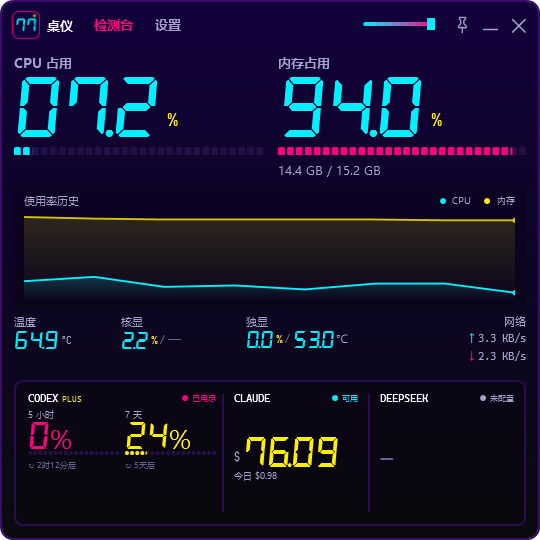
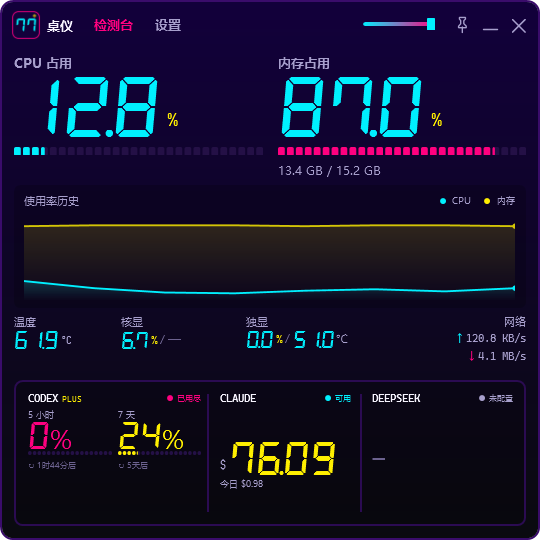
Refine Claude settings, themed scrollbar, and balance alignment

diff --git a/MainWindow.xaml b/MainWindow.xaml
@@ -45,6 +45,50 @@
             <Setter Property="Foreground" Value="{StaticResource ScreenMutedBrush}" />
         </Style>
 
+        <!-- Dark vertical scrollbar used by the settings page. -->
+        <Style x:Key="DarkScrollBarStyle" TargetType="ScrollBar">
+            <Setter Property="Width" Value="6" />
+            <Setter Property="Background" Value="Transparent" />
+            <Setter Property="Template">
+                <Setter.Value>
+                    <ControlTemplate TargetType="ScrollBar">
+                        <Grid Width="6" Background="Transparent">
+                            <Track x:Name="PART_Track" IsDirectionReversed="True">
+                                <Track.DecreaseRepeatButton>
+                                    <RepeatButton Command="{x:Static ScrollBar.PageUpCommand}"
+                                                  CommandTarget="{Binding RelativeSource={RelativeSource TemplatedParent}}"
+                                                  Opacity="0" Focusable="False" />
+                                </Track.DecreaseRepeatButton>
+                                <Track.Thumb>
+                                    <Thumb MinHeight="18">
+                                        <Thumb.Template>
+                                            <ControlTemplate TargetType="Thumb">
+                                                <Border x:Name="ThumbBorder" Background="#5A2A8A"
+                                                        CornerRadius="3" Margin="1,0" />
+                                                <ControlTemplate.Triggers>
+                                                    <Trigger Property="IsMouseOver" Value="True">
+                                                        <Setter TargetName="ThumbBorder" Property="Background" Value="#FF007F" />
+                                                    </Trigger>
+                                                    <Trigger Property="IsDragging" Value="True">
+                                                        <Setter TargetName="ThumbBorder" Property="Background" Value="#FFEF00" />
+                                                    </Trigger>
+                                                </ControlTemplate.Triggers>
+                                            </ControlTemplate>
+                                        </Thumb.Template>
+                                    </Thumb>
+                                </Track.Thumb>
+                                <Track.IncreaseRepeatButton>
+                                    <RepeatButton Command="{x:Static ScrollBar.PageDownCommand}"
+                                                  CommandTarget="{Binding RelativeSource={RelativeSource TemplatedParent}}"
+                                                  Opacity="0" Focusable="False" />
+                                </Track.IncreaseRepeatButton>
+                            </Track>
+                        </Grid>
+                    </ControlTemplate>
+                </Setter.Value>
+            </Setter>
+        </Style>
+
         <!-- Top tabs: text only, no surrounding frame. -->
         <Style x:Key="NavTabStyle" TargetType="Button">
             <Setter Property="Height" Value="22" />
@@ -516,11 +560,11 @@
                             Padding="8,7">
                         <Grid>
                             <Grid.ColumnDefinitions>
-                                <ColumnDefinition Width="1.35*" />
+                                <ColumnDefinition Width="1.25*" />
                                 <ColumnDefinition Width="1" />
-                                <ColumnDefinition Width="*" />
+                                <ColumnDefinition Width="1.05*" />
                                 <ColumnDefinition Width="1" />
-                                <ColumnDefinition Width="*" />
+                                <ColumnDefinition Width="1.05*" />
                             </Grid.ColumnDefinitions>
 
                             <!-- Codex is narrower now: each window keeps its own reset line. -->
@@ -609,7 +653,7 @@
                                                    Foreground="{Binding Claude.StatusBrush}" />
                                     </StackPanel>
                                 </Grid>
-                                <StackPanel Grid.Row="1" VerticalAlignment="Center">
+                                <StackPanel Grid.Row="1" VerticalAlignment="Center" Margin="0,8,0,0">
                                     <StackPanel Orientation="Horizontal" VerticalAlignment="Center">
                                         <TextBlock Text="{Binding Claude.CurrencySymbol}" FontFamily="{StaticResource NarrowFont}"
                                                    FontSize="8" FontWeight="Bold" Foreground="{StaticResource ScreenMutedBrush}"
@@ -687,6 +731,9 @@
                     </Grid.RowDefinitions>
                     <ScrollViewer Grid.Row="0" VerticalScrollBarVisibility="Auto"
                                   HorizontalScrollBarVisibility="Disabled" Padding="0,0,4,0">
+                        <ScrollViewer.Resources>
+                            <Style TargetType="ScrollBar" BasedOn="{StaticResource DarkScrollBarStyle}" />
+                        </ScrollViewer.Resources>
                         <StackPanel>
                     <Border Background="#30000000" BorderBrush="{StaticResource ScreenLineBrush}"
                             BorderThickness="1" CornerRadius="5" Padding="8,5">
@@ -727,6 +774,38 @@
                             </Grid>
                             <TextBlock x:Name="ApiKeyStatusText" Text="尚未配置" Style="{StaticResource CompactCaptionStyle}"
                                        FontSize="7" Foreground="{StaticResource ScreenMutedBrush}" Margin="0,3,0,0" />
+
+                            <TextBlock Text="Claude 查询地址" Style="{StaticResource MiniFieldLabelStyle}" Margin="0,5,0,2" />
+                            <Grid Height="26">
+                                <Grid.ColumnDefinitions>
+                                    <ColumnDefinition Width="*" />
+                                    <ColumnDefinition Width="4" />
+                                    <ColumnDefinition Width="Auto" />
+                                </Grid.ColumnDefinitions>
+                                <TextBox x:Name="ClaudeQueryUrlBox" Style="{StaticResource MiniTextBoxStyle}"
+                                         ToolTip="留空使用 Claude CLI 配置推导的 /v1/usage 地址" />
+                                <Button Grid.Column="2" Content="自动" Style="{StaticResource MiniButtonStyle}"
+                                        Width="42" Click="AutoDetectClaude_Click" />
+                            </Grid>
+                            <TextBlock Text="Claude Key（可选）" Style="{StaticResource MiniFieldLabelStyle}" Margin="0,4,0,2" />
+                            <Grid Height="26">
+                                <Grid.ColumnDefinitions>
+                                    <ColumnDefinition Width="*" />
+                                    <ColumnDefinition Width="4" />
+                                    <ColumnDefinition Width="Auto" />
+                                    <ColumnDefinition Width="4" />
+                                    <ColumnDefinition Width="Auto" />
+                                </Grid.ColumnDefinitions>
+                                <PasswordBox x:Name="ClaudeApiKeyBox" Style="{StaticResource MiniPasswordBoxStyle}"
+                                             ToolTip="留空使用 Claude CLI 配置；手动填写时本机 DPAPI 加密保存" />
+                                <Button Grid.Column="2" Content="测试" Style="{StaticResource MiniButtonStyle}"
+                                        Width="36" Click="TestClaude_Click" />
+                                <Button Grid.Column="4" Content="清除" Style="{StaticResource MiniButtonStyle}"
+                                        Width="36" Click="ClearClaudeKey_Click" />
+                            </Grid>
+                            <TextBlock x:Name="ClaudeStatusText" Text="" Style="{StaticResource CompactCaptionStyle}"
+                                       FontSize="6.5" Foreground="{StaticResource ScreenMutedBrush}" Margin="0,2,0,0"
+                                       TextTrimming="CharacterEllipsis" />
                         </StackPanel>
                     </Border>
 
@@ -765,47 +844,6 @@
                                     </ComboBox>
                                 </StackPanel>
                             </Grid>
-                        </StackPanel>
-                    </Border>
-
-                    <Border Background="#30000000" BorderBrush="{StaticResource ScreenLineBrush}"
-                            BorderThickness="1" CornerRadius="5" Padding="8,5" Margin="0,4,0,0">
-                        <StackPanel>
-                            <TextBlock Text="Claude" Style="{StaticResource SettingsSectionStyle}" />
-                            <TextBlock Text="自动读取 Claude CLI 的 Key 和 Base URL；留空使用 CLI 配置"
-                                       FontSize="6.3" Foreground="{StaticResource ScreenMutedBrush}" Margin="0,2,0,0" />
-                            <TextBlock Text="查询地址" Style="{StaticResource MiniFieldLabelStyle}" Margin="0,4,0,2" />
-                            <Grid Height="26">
-                                <Grid.ColumnDefinitions>
-                                    <ColumnDefinition Width="*" />
-                                    <ColumnDefinition Width="4" />
-                                    <ColumnDefinition Width="Auto" />
-                                </Grid.ColumnDefinitions>
-                                <TextBox x:Name="ClaudeQueryUrlBox" Style="{StaticResource MiniTextBoxStyle}"
-                                         ToolTip="留空或点「自动」使用 Claude CLI 配置推导出的 /v1/usage 地址" />
-                                <Button Grid.Column="2" Content="自动" Style="{StaticResource MiniButtonStyle}"
-                                        Width="42" Click="AutoDetectClaude_Click" />
-                            </Grid>
-                            <TextBlock Text="Claude Key（留空用 CLI 配置）" Style="{StaticResource MiniFieldLabelStyle}"
-                                       Margin="0,4,0,2" />
-                            <Grid Height="26">
-                                <Grid.ColumnDefinitions>
-                                    <ColumnDefinition Width="*" />
-                                    <ColumnDefinition Width="4" />
-                                    <ColumnDefinition Width="Auto" />
-                                    <ColumnDefinition Width="4" />
-                                    <ColumnDefinition Width="Auto" />
-                                </Grid.ColumnDefinitions>
-                                <PasswordBox x:Name="ClaudeApiKeyBox" Style="{StaticResource MiniPasswordBoxStyle}"
-                                             ToolTip="仅在本机 DPAPI 加密保存；留空时读取 Claude CLI 配置" />
-                                <Button Grid.Column="2" Content="测试" Style="{StaticResource MiniButtonStyle}"
-                                        Width="36" Click="TestClaude_Click" />
-                                <Button Grid.Column="4" Content="清除" Style="{StaticResource MiniButtonStyle}"
-                                        Width="36" Click="ClearClaudeKey_Click" />
-                            </Grid>
-                            <TextBlock x:Name="ClaudeStatusText" Text="自动读取 Claude CLI 配置" Style="{StaticResource CompactCaptionStyle}"
-                                       FontSize="6.5" Foreground="{StaticResource ScreenMutedBrush}" Margin="0,2,0,0"
-                                       TextTrimming="CharacterEllipsis" />
                         </StackPanel>
                     </Border>
 

diff --git a/MainWindow.xaml.cs b/MainWindow.xaml.cs
@@ -107,7 +107,7 @@ public partial class MainWindow : Window
             CodexSecondaryStack.Margin = new Thickness(0, 23, 0, 0);
             CodexPrimaryValueText.FontSize = 19;
             CodexSecondaryValueText.FontSize = 19;
-            ClaudeBalanceValueText.FontSize = 21;
+            ClaudeBalanceValueText.FontSize = 24;
             DeepSeekBalanceValueText.FontSize = 24;
         }
         else
@@ -142,7 +142,7 @@ public partial class MainWindow : Window
             CodexSecondaryStack.Margin = new Thickness(0);
             CodexPrimaryValueText.FontSize = 18;
             CodexSecondaryValueText.FontSize = 18;
-            ClaudeBalanceValueText.FontSize = 20;
+            ClaudeBalanceValueText.FontSize = 22;
             DeepSeekBalanceValueText.FontSize = 22;
         }
     }

diff --git a/README.md b/README.md
@@ -1,4 +1,4 @@
-# 桌仪 · LocalDeck 1.6.0
+# 桌仪 · LocalDeck 1.6.1
 
 一个 Windows 11 桌面迷你仪表：CPU、内存、温度、NVIDIA GPU、网络，以及 Codex 额度、Claude 余额、DeepSeek 余额，全部放进一块 **360 × 360** 的方形 LCD。
 
@@ -17,7 +17,9 @@
   - **性能优先**：CPU / 内存大数字在上，历史曲线居中，额度条在底部。
   - **额度优先**：额度条置顶并放大 Codex / Claude / DeepSeek 数字；CPU / 内存缩小，曲线下移，传感器行留底部。
 - **额度条三栏**：Codex 缩窄以容纳 Claude 和 DeepSeek，窗口总尺寸仍是 360 × 360；Codex 的 5 小时 / 7 天重置时间分别显示在各自数值下方。
-- **Claude 余额**：自动读取 Claude CLI 的 `~/.claude/settings.json`，用其中的 `ANTHROPIC_AUTH_TOKEN` 和 `ANTHROPIC_BASE_URL` 推导 `/v1/usage`，显示供应商预付费余额和今日消耗；设置里可覆盖查询地址或 Key。
+- **Claude 余额**：自动读取 Claude CLI 的 `~/.claude/settings.json`，用其中的 `ANTHROPIC_AUTH_TOKEN` 和 `ANTHROPIC_BASE_URL` 推导 `/v1/usage`，显示供应商预付费余额和今日消耗；配置已并入「数据源」卡片，可覆盖查询地址或 Key。
+- **统一余额排版**：Claude 与 DeepSeek 的货币符号、余额字号和高度一致；Claude 只在下方多一行「今日」消耗。
+- **设置滚动**：内容超出时使用深紫主题的竖向滚动条，「保存并应用」仍固定在底部。
 - **360 × 360 固定方形窗口**，布局紧凑，不支持拖拽缩放。
 - **背景透明度滑条**：位于顶部图钉左侧，只调整背景 alpha，文字、数字和控件保持不透明。
 - **标题栏隐藏**：失焦时整块窗框上沿下移、窗口高度缩短，正文位置不变；重新聚焦恢复。
@@ -76,7 +78,7 @@ Release 资产：
 
 显示供应商返回的余额（USD / CNY）和今日实际消耗。读取是只读的，不会调用模型、不会消费额度。
 
-- 如果 Base URL 或 Key 不在 Claude CLI 配置中，可以在设置 → Claude 里手动填写查询地址和 Key；
+- 如果 Base URL 或 Key 不在 Claude CLI 配置中，可以在设置 → 数据源 → Claude 里手动填写查询地址和 Key；
 - 手动 Key 使用 DPAPI 加密保存，留空时继续使用 Claude CLI 配置；
 - 供应商接口不可用时显示「连接失败」，不影响其他卡片。
 
@@ -88,8 +90,7 @@ Release 资产：
 
 设置页为三组卡片：
 
-- **数据源**：Codex 路径自动检测 / 浏览；DeepSeek 密钥测试 / 清除。
-- **Claude**：自动读取 Claude CLI 配置；可覆盖查询地址和 Key，支持测试 / 清除。
+- **数据源**：Codex 路径、DeepSeek 密钥、Claude 查询地址 / Key（同一张卡片）；支持自动检测、测试和清除。
 - **刷新**：统计网卡、额度刷新（1 / 5 / 15 / 30 分钟）、硬件刷新。
 - **窗口**：主题、窗口置顶、开机启动、标题栏隐藏。
 - 底部固定「保存并应用」；保存后主题、刷新间隔和开关立即生效。
